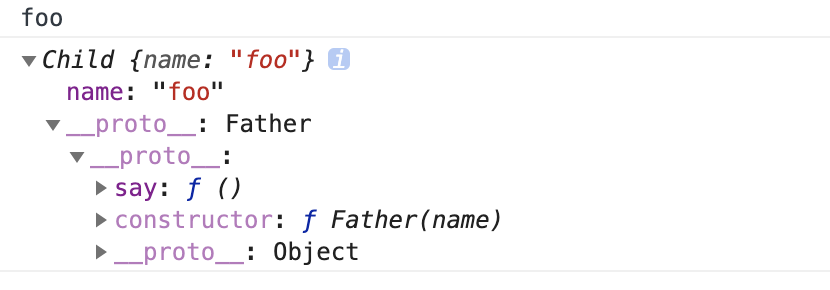
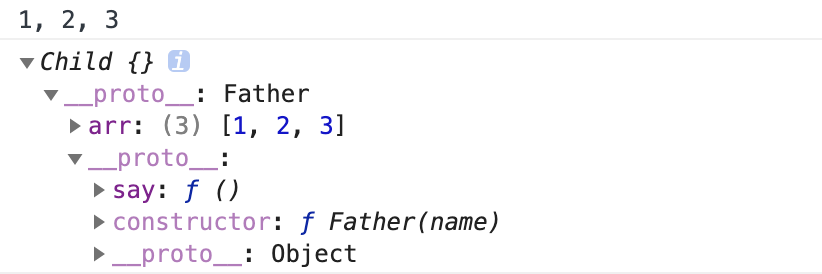
updated at 2020-05-07 22:25:56

Changed region(s): [[0.0, 0.146, 0.6083, 0.9927], [0.0304, 0.0292, 0.1521, 0.1168]]

diff --git a/docs/javascript/extends.md b/docs/javascript/extends.md
@@ -29,20 +29,19 @@ dog.say() // 调用继承 Animal 的方法
 这种方式关键在于: **子类型的原型为父类型的一个实例对象。**
 
 ```js {11}
-function Father(name) {}
+function Father() {
+  this.arr = [1, 2, 3]
+}
 
 Father.prototype.say = function() {
-  console.log(this.name)
+  console.log(this.arr.join(', '))
 }
 
-function Child(name) {
-  this.name = name
-}
+function Child() {}
 
 Child.prototype = new Father() // 子类型的原型为父类型的一个实例对象
 
-var c1 = new Child('foo')
-
+var c1 = new Child()
 c1.say()
 ```
 
@@ -50,5 +49,63 @@ c1.say()
 
 ![](../../assets/javascript/extends.png)
 
+**子类继承父类的属性和方法是将父类的私有属性和公有方法都作为自己的公有属性和方法，**
+
+```js {5}
+var c1 = new Child()
+var c2 = new Child()
+
+c2.say() // 1, 2, 3
+c1.arr.push(4)
+c2.say() // 1, 2, 3, 4
+```
+
+这就表示，原型链继承里面，使用的都是同一个内存里的值，这样修改该内存里的值，其他继承的子类实例里的值都会变化。
+
+---
+
+- 特点
+  - 父类新增原型方法/原型属性，子类都能访问到
+  - 简单，易于实现
+- 缺点：
+  - 无法实现多继承
+  - 来自原型对象的所有属性被所有实例共享
+  - 创建子类实例时，无法向父类构造函数传参
+  - 要想为子类新增属性和方法，必须要在 `Child.prototype = new Father()` 之后执行，不能放到构造器中
+
+## 借用构造函数继承 <Badge text="Father.call(this, ...)"/>
+
+这种方式关键在于: **在子类型构造函数中通用 call()调用父类型构造函数**
+
+```js {6}
+function Father(name) {
+  this.arr = [1, 2, 3]
+}
+
+function Child(name) {
+  Father.call(this, name)
+}
+
+var c1 = new Child('foo')
+var c2 = new Child('bar')
+
+c1.arr.push(4)
+console.log(c2.arr) // [1, 2, 3]
+```
+
+---
+
+- 特点：
+  - 解决了原型链继承中子类实例共享父类引用属性的问题
+  - 创建子类实例时，可以向父类传递参数
+  - 可以实现多继承(call 多个父类对象)
+- 缺点：
+  - 实例并不是父类的实例，只是子类的实例
+  - 只能继承父类的实例属性和方法，不能继承原型属性和方法
+  - 无法实现函数复用，每个子类都有父类实例函数的副本，影响性能
+
+---
+
 - [JavaScript 对象封装、多态、继承](https://juejin.im/post/5e75e22951882549027687f9)
 - [隔壁小孩也能看懂的 7 种 JavaScript 继承实现](https://juejin.im/post/5ceb468af265da1bd1463585)
+- [JavaScript 常见的六种继承方式](https://segmentfault.com/a/1190000016708006)
